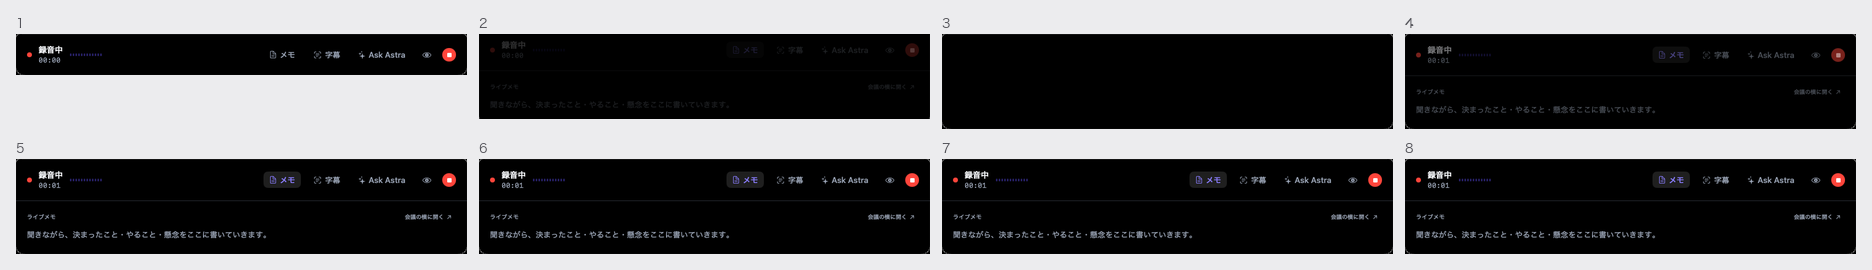
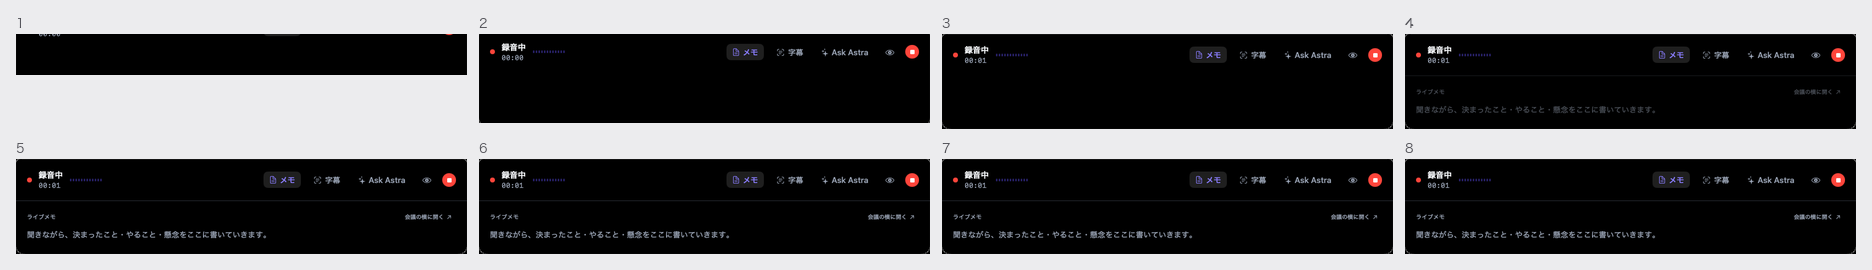
fix(dock): keep the meeting header visible while a panel opens
The blind panel for perceived surface continuity (journeys/perceived/)
failed T1 meeting→notes: all three validated judges observed a frame where the
whole dock goes black, and two read it as "a different surface was put on
top". Layer A had passed — top edge 0pt, one window, per-frame delta small —
so this was invisible to the instruments and only the judges caught it.

Cause: VoiceHUDView faded the entire dock content to 0 on every dock change,
including .meeting(nil) → .meeting(.notes), where the controller row
(録音中 / メモ / 字幕 / Ask Astra / stop) does not change at all. The user's
instruction was "直してください".

Fix: for a .meeting → .meeting transition the whole-content fade is skipped;
MeetingDock instead fades in only the part that changes (the divider and the
panel body) after the same delay the whole-content rule used
(dockResizeMs + dockContentDelayMs, 0.12s ease-out, Reduce Motion honored).
No token, size, color or radius changed.

Re-measured with the same instrument and the same fixtures on freshly captured
frames (pre-fix strips kept under images/before-fix/): three validated judges
(opus, fable, opus; one sonnet failed the jump fixture and is excluded) now
read T1 as continuous 3/3, and none observes a black frame. Layer A:
contentΔmax 9.3 → 5.1 per frame, top 0.0pt, windows +0, dockanim OK. T2 is
unchanged and still reads first-surface-stays 3/3, top fixed 3/3. Remaining
layer-C note: the very first tick shows the window shorter than its content,
[…]

diff --git a/apps/astra-macos/Sources/AstraMac/VoiceHUD/VoiceHUDView.swift b/apps/astra-macos/Sources/AstraMac/VoiceHUD/VoiceHUDView.swift
@@ -41,8 +41,13 @@ struct VoiceTaskDockView: View {
         // 各 View は `@Environment(\.colorScheme)` を見ているので、ここで一括して切り替わる。
         .environment(\.colorScheme, .dark)
         .frame(width: size.width, height: size.height)
-        .onChange(of: store.dock) { _, _ in
+        .onChange(of: store.dock) { old, new in
             guard !reduceMotion else { return }
+            // 会議 Dock の中で板（メモ / 字幕 / Ask）が開閉するだけのときは、変わらない見出し
+            // （録音中・メモ・字幕・Ask Astra・停止）を消さない。全体を消すと、盲検 3 名全員が
+            // 「途中で全面が真っ黒」と観察し、2 名が「別物が載った」と読んだ（journeys/perceived）。
+            // 開閉する板の側だけが MeetingDock の中で同じ間合いで fade する。
+            if case .meeting = old, case .meeting = new { return }
             // 面のリサイズが終わる少し後に中身を戻す（§Animation 40–70ms）。
             contentVisible = false
             DispatchQueue.main.asyncAfter(deadline: .now() + Motion.dockResizeMs + Motion.dockContentDelayMs) {
@@ -782,22 +787,42 @@ struct MeetingDock: View {
     @ObservedObject private var store = AstraStateStore.shared
     @ObservedObject private var recording = RecordingWorkspaceState.shared
     @ObservedObject private var secret = SecretMode.shared
+    @Environment(\.accessibilityReduceMotion) private var reduceMotion
     let open: DockPresentation.MeetingPanel?
+    /// 開く板だけを、面が伸び終わってから出す（見出しは消さない）。
+    @State private var bodyVisible = false
 
     var body: some View {
         VStack(alignment: .leading, spacing: 0) {
             controller
             if let open {
-                Divider().overlay(Palette.border(dark))
-                MeetingPanelBody(panel: open)
-                    .padding(.horizontal, S.metric(Metrics.dockPadH))
-                    .padding(.vertical, S.metric(Metrics.dockPadV))
+                Group {
+                    Divider().overlay(Palette.border(dark))
+                    MeetingPanelBody(panel: open)
+                        .padding(.horizontal, S.metric(Metrics.dockPadH))
+                        .padding(.vertical, S.metric(Metrics.dockPadV))
+                }
+                .opacity(bodyVisible || reduceMotion ? 1 : 0)
+                .animation(reduceMotion ? nil : .easeOut(duration: 0.12), value: bodyVisible)
                 Spacer(minLength: 0)
             }
+        }
+        .onAppear { if open != nil { revealBody() } }
+        .onChange(of: open) { _, new in
+            if new == nil { bodyVisible = false } else { revealBody() }
         }
         .frame(maxWidth: .infinity, maxHeight: .infinity, alignment: .top)
         .accessibilityElement(children: .contain)
         .accessibilityIdentifier("dockMeeting")
+    }
+
+    /// 面のリサイズが終わる少し後に板を出す（全体 fade と同じ間合い。§Animation 40–70ms）。
+    private func revealBody() {
+        if reduceMotion { bodyVisible = true; return }
+        bodyVisible = false
+        DispatchQueue.main.asyncAfter(deadline: .now() + Motion.dockResizeMs + Motion.dockContentDelayMs) {
+            bodyVisible = true
+        }
     }
 
     private var controller: some View {

diff --git a/docs/ux-benchmark/journeys/PHASE2-JOURNEY.md b/docs/ux-benchmark/journeys/PHASE2-JOURNEY.md
@@ -213,7 +213,13 @@ fixture 検証（同じ面が伸びる / 別の面に替わる / 跳ぶ、の 3 
 T1 meeting→notes は「同じ面が広がった」1 / 3、3 名全員が「コマ 3 で全面が真っ黒、コマ 2 も板が沈む」を観察。
 下の層 C に書いてある**中身が 100–300ms 消える fade が、知覚では「別物が載った」に読まれる**（Evidence B）。
 T2 notes→workspace は 3 名とも「1 枚目はそのまま・上辺は不動・その下に 2 枚目が開いた」で設計どおり。
-直すなら「変わらない見出しは消さない」（本人の判断待ち。Motion の規則と `dockanim` gate に触る）。
+本人の指示「直してください」（2026-09-05）で直した: **会議 Dock の中で板（メモ / 字幕 / Ask）が開閉するだけの
+遷移（`.meeting` → `.meeting`）では、`VoiceHUDView.contentVisible` の全体 fade を掛けない。** 開閉する板の側
+（`MeetingDock` の Divider + `MeetingPanelBody`）だけが、同じ間合い（`dockResizeMs + dockContentDelayMs` 後に 0.12s）
+で現れる。見出し（録音中・メモ・字幕・Ask Astra・停止）は消えない。トークンも寸法も変えていない。
+層 A の再測: T1 contentΔmax 9.3 → 5.1 / frame、上辺 0.0pt、窓 +0、`dockanim` OK。
+残る層 C: 最初の 1 tick だけ、窓（76pt）が中身（174pt）より低く、見出しが上で切れて見える
+（撮影のコマ 1。判定者は「cannot tell」と読んだ）。
 
 ### 層 C（記録のみ。閾値のある指標はどれも落ちていない）
 

diff --git a/docs/ux-benchmark/REALITY_GATES.md b/docs/ux-benchmark/REALITY_GATES.md
@@ -335,6 +335,14 @@ Agent execution   → 上位 Agent UI
 上回った」とはまだ言わない。§C の 4 型（公開素材）は済み、5 型と WORLD_CLASS の人の実機分（keyboard / VoiceOver /
 実 Meet / 音声認識 latency）は本人の端末で埋める。
 
+## §E PERCEIVED_SURFACE_CONTINUITY — 「同じ面に感じるか」を盲検で（2026-09-05）
+
+層 A（`surfacemotion`）は通っていたが、層 B（fixture 検証つき盲検 3 名、`journeys/perceived/`）で
+T1 meeting→notes が 1 / 3 しか「同じ面が広がった」と読まれず、3 名全員が「コマ 3 で全面が真っ黒」を観察した。
+原因は morph 中に中身全体を消す fade。本人の「直してください」で、`.meeting` の中で板が開閉するだけの遷移は
+見出しを消さず、開閉する板だけを同じ間合いで出すように直した（トークン・寸法は不変）。再判定は T1 3 / 3 continuous、
+「真っ黒」の観察 0 / 3。T2 は 1 枚目が残る・上辺不動が 3 / 3（設計どおり）。詳細は `journeys/perceived/answers/aggregate.md`。
+
 ## 直すときの規則
 
 ```

diff --git a/docs/ux-benchmark/RC-SESSION-RUNBOOK.md b/docs/ux-benchmark/RC-SESSION-RUNBOOK.md
@@ -244,7 +244,7 @@ LIVE_TCC                        NOT_MEASURED   §5  TCC リセットは本人が
 WORLD_CLASS 残り 3 型            NOT_COMPARABLE §6  Listening / Task Running / Recovery は公開素材が無く hands-on が要る
                                                     （Invocation は vs Raycast WIN、Workspace は vs Granola WIN / vs Notion SPLIT、Sample 23）
 VERIFY_ALL                      PASS           §0  2026-09-05 07:47 本人のターミナルで VERIFY_ALL_OK
-PERCEIVED_SURFACE_CONTINUITY    T1 FAIL        journeys/perceived/（層 B。T1 の中身 fade が「別物」に読まれる。修正は本人の判断）
+PERCEIVED_SURFACE_CONTINUITY    PASS           journeys/perceived/（層 B。T1 は修正後 3/3 continuous、T2 は 1 枚目が残る 3/3）
 ```
 
 上の NOT_MEASURED / FAIL が残る限り **NO-GO**。「十分良いので出す」という判断はしない。
